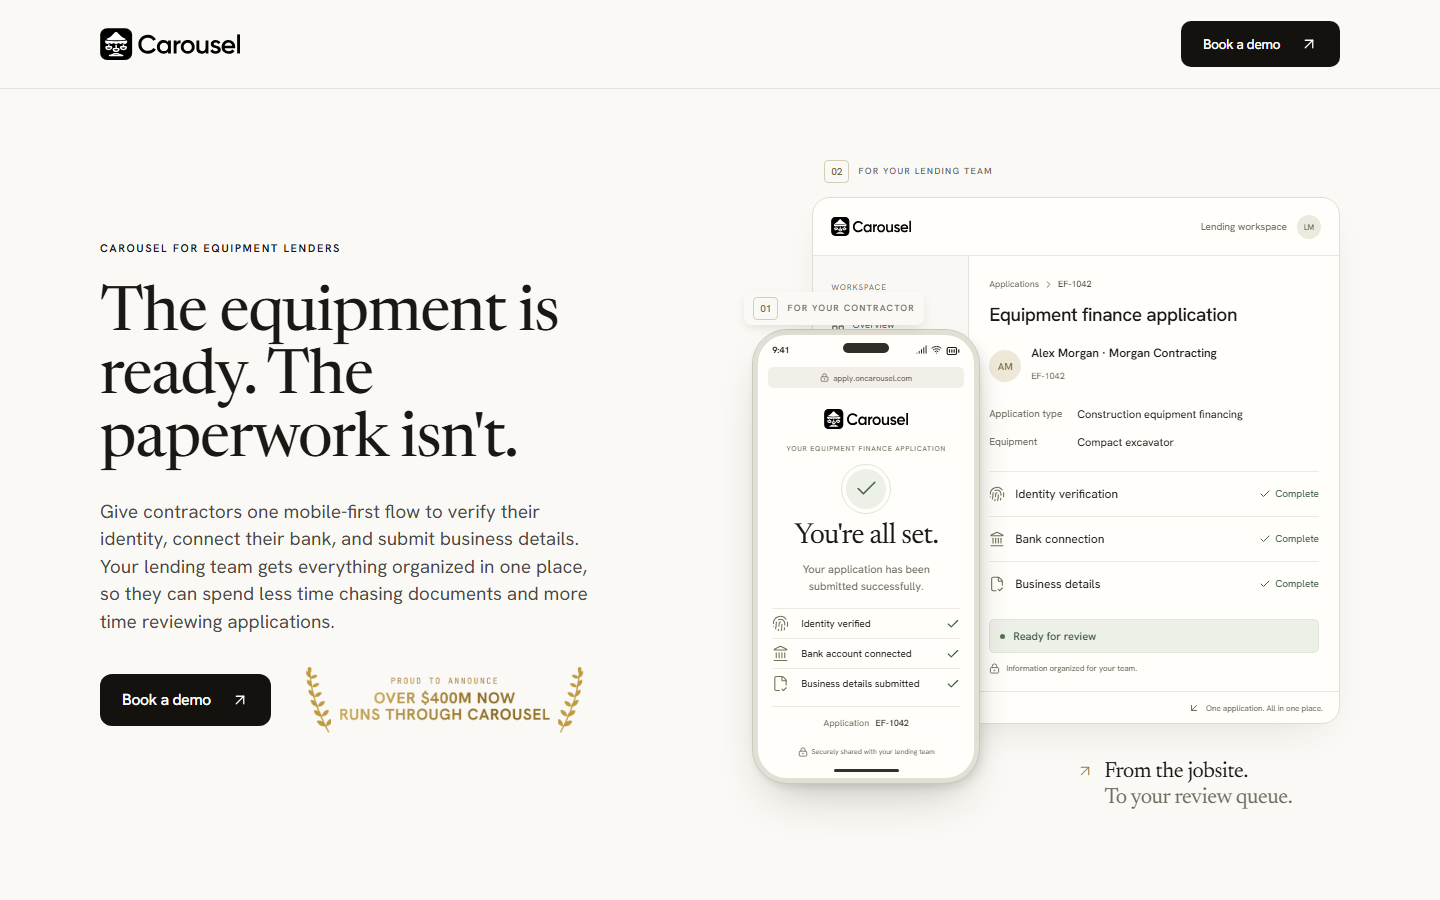
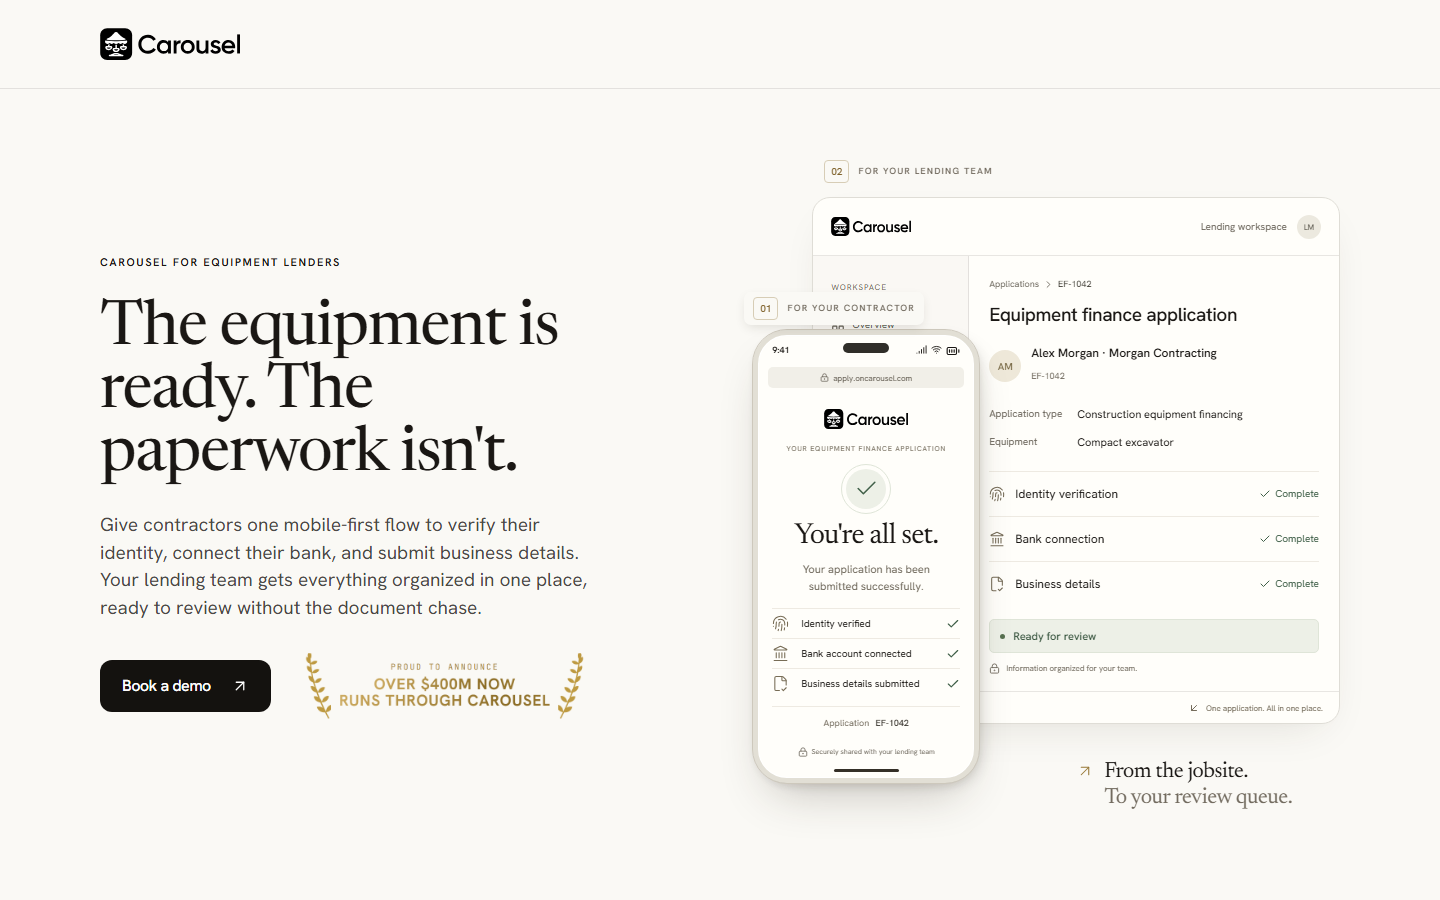
docs: finalize submission documentation and refresh screenshots
- Add live demo and fix QA and AI log links
- Clarify the target audience and landing page rationale
- Document the iPhone Safari check and mobile layout trade-offs
- Refresh desktop and mobile preview screenshots

Changed region(s): [[0.0625, 0.56, 0.4062, 0.8089], [0.0625, 0.2489, 0.4062, 0.5289], [0.8125, 0.0, 0.9375, 0.0933]]

diff --git a/README.md b/README.md
@@ -2,13 +2,13 @@
 
 A responsive landing-page hero for the Carousel AI Engineer take-home assignment, with one conversion goal: **Book a demo**.
 
-[Repository](https://github.com/christiankfoury/carousel-landing-page-hero-section) | [Desktop preview](docs/screenshots/desktop.png) | [Mobile preview](docs/screenshots/mobile.png)
+[Live demo](https://carousel-landing-page-hero-section.vercel.app/) | [Repository](https://github.com/christiankfoury/carousel-landing-page-hero-section) | [Desktop preview](docs/screenshots/desktop.png) | [Mobile preview](docs/screenshots/mobile.png)
 
 ## Who Is It for and Why
 
-I designed this landing page for equipment financing lenders and leasing teams, particularly those serving construction contractors. The headline, “The equipment is ready. The paperwork isn’t,” highlights the friction of application intake and verification. The hero shows both perspectives: a contractor applying on their phone and a lending team receiving organized, review-ready information.
+I designed this landing page for operations teams at equipment lenders and leasing companies, particularly those serving construction contractors. The headline, “The equipment is ready. The paperwork isn’t,” highlights the document chasing that delays application review. The idea is that contractors working away from a desk would benefit from completing intake on their phones. The hero shows both perspectives: a contractor submitting their information and a lending team receiving an organized file, ready to review.
 
-I chose this audience because Carousel already supports equipment financing but doesn’t prominently feature it in its main navigation, in "Our Products". This created an opportunity to build a targeted landing page using existing capabilities. Designed for paid media and outbound traffic, the page follows Carousel’s visual identity, addresses a specific customer pain point, and drives one clear action: Book a demo.
+I chose this audience because Carousel already supports equipment financing but doesn’t prominently feature it under “Our Products” in its main navigation. This suggested an opportunity to test a targeted landing page using existing capabilities. Designed for paid media and outbound traffic, the page follows Carousel’s visual identity and uses equipment-specific messaging to connect with this audience, while driving one clear action: Book a demo.
 
 ## Run locally
 
@@ -42,10 +42,10 @@ npm run test:e2e
 
 The suite starts a production preview on port 4173. It checks content, demo links, image loading, overflow, overlapping product details, and accessibility at six viewport widths, plus keyboard navigation, reduced motion, font loading, and initial layout stability. Generated screenshots go to the gitignored `test-results/` folder.
 
-See [QA.md](QA.md) for results and limitations and [AI_LOG.md](AI_LOG.md) for development decisions and AI corrections.
+See [QA notes](qa/QA.md), [AI tools used](ai-logs/tool-used.md), and the prompts for [product strategy and implementation](ai-logs/prompts/prompt-1-product-strategy-and-implementation.md) and [responsive refinement](ai-logs/prompts/prompt-2-responsive-refinement.md).
 
 ## Assets and deployment
 
 The original Carousel logo and announcement graphic are included locally. Sources are recorded in [public/images/README.md](public/images/README.md).
 
-Deploy `dist/` to a static host with build command `npm run build`. No environment variables are required. Asset URLs assume a domain-root deployment. No hosted version is currently documented.
+Deploy `dist/` to a static host with build command `npm run build`. No environment variables are required. Asset URLs assume a domain-root deployment.

diff --git a/qa/QA.md b/qa/QA.md
@@ -21,4 +21,11 @@ Verified using Node 20.19.4 and Playwright Chromium on Windows.
 
 Responsive checks use a 900px viewport height. The layout-stability check uses a 1440x1000 viewport without network throttling.
 
-Desktop and mobile screenshots were visually reviewed during implementation and are included in [docs/screenshots](docs/screenshots/).
+Desktop and mobile screenshots were visually reviewed during implementation and are included in [docs/screenshots](../docs/screenshots/).
+
+## Manual device check
+
+I manually checked the [live page](https://carousel-landing-page-hero-section.vercel.app/) on my iPhone using Safari. This was separate from the emulated viewport tests and Lighthouse audits above.
+
+## Known limitations and trade-offs
+In the mobile version, the contract phone and the lending dashboard have been stacked so that both screens remain readable and convey the applicant to lender process flow. This increases the length of the illustration and moves the perspective of the lending team further down on the screen. This layout was purposefully maintained as a different one could be tried.
